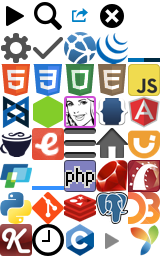
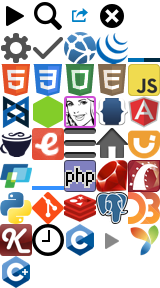
Add C++ documentation

diff --git a/assets/stylesheets/global/_icons.scss b/assets/stylesheets/global/_icons.scss
@@ -4,7 +4,7 @@
   width: 1rem;
   height: 1rem;
   background-image: image-url('icons.png');
-  background-size: 5rem 8rem;
+  background-size: 5rem 9rem;
 }
 
 @media (-webkit-min-device-pixel-ratio: 1.5), (min-resolution: 144dpi) {
@@ -51,3 +51,4 @@
 ._icon-c:before             { background-position: -2rem -7rem; }
 %icon-path                  { background-position: -3rem -7rem; }
 ._icon-yii:before           { background-position: -4rem -7rem; }
+._icon-cpp:before           { background-position: 0 -8rem; }

diff --git a/assets/stylesheets/pages/_c.scss b/assets/stylesheets/pages/_c.scss
@@ -19,4 +19,18 @@
     color: $textColorLight;
   }
   .t-sdsc-nopad dl, .t-sdsc-nopad dd { margin: 0; }
+
+  td > h5 {
+    margin: 0;
+    line-height: inherit;
+  }
+
+  .t-inheritance-diagram {
+    display: table;
+    margin: 1rem 0;
+    padding: .375rem;
+    font-size: .75rem;
+    border: 1px solid #ccc;
+    border-radius: 2px;
+  }
 }

diff --git a/lib/docs/filters/cpp/entries.rb b/lib/docs/filters/cpp/entries.rb
@@ -1,0 +1,50 @@
+module Docs
+  class Cpp
+    class EntriesFilter < Docs::EntriesFilter
+      REPLACE_NAMES = {
+        'Error directive' => '#error directive',
+        'Filename and line information' => '#line directive',
+        'Implementation defined behavior control' => '#pragma directive',
+        'Replacing text macros' => '#define directive',
+        'Source file inclusion' => '#include directive' }
+
+      def get_name
+        name = at_css('#firstHeading').content.strip
+        name.sub! 'C++ concepts: ', ''
+        name.sub! 'C++ keywords: ', ''
+        name.sub! 'C++ ', ''
+        name.sub! %r{\s\(.+\)}, ''
+        name.sub! %r{\AStandard library header <(.+)>\z}, '\1'
+        name = name.split(',').first
+        REPLACE_NAMES[name] || name
+      end
+
+      def get_type
+        if at_css('#firstHeading').content.include?('C++ keyword')
+          'Keywords'
+        elsif type = at_css('.t-navbar > div:nth-child(4) > :first-child').try(:content)
+          type.strip!
+          type.sub! ' library', ''
+          type.sub! ' utilities', ''
+          type.sub! 'C++ ', ''
+          type.capitalize!
+          type
+        end
+      end
+
+      def additional_entries
+        return [] unless include_default_entry?
+        names = at_css('#firstHeading').content.gsub(%r{\(.+?\)}, '').split(',')[1..-1]
+        names.each(&:strip!).reject! do |name|
+          name.size <= 2 || name == '...' || name =~ /\A[<>]/ || name.start_with?('operator')
+        end
+        names.map { |name| [name] }
+      end
+
+      def include_default_entry?
+        return @include_default_entry if defined? @include_default_entry
+        @include_default_entry = at_css('.t-navbar > div:nth-child(4) > a') && at_css('#firstHeading').content !~ /\A\s*operator./
+      end
+    end
+  end
+end

diff --git a/lib/docs/scrapers/cpp.rb b/lib/docs/scrapers/cpp.rb
@@ -1,0 +1,30 @@
+module Docs
+  class Cpp < FileScraper
+    self.name = 'C++'
+    self.slug = 'cpp'
+    self.type = 'c'
+    self.dir = '/Users/Thibaut/DevDocs/Docs/C/en/cpp'
+    self.base_url = 'http://en.cppreference.com/w/cpp/'
+    self.root_path = 'header.html'
+
+    html_filters.insert_before 'clean_html', 'c/fix_code'
+    html_filters.push 'cpp/entries', 'c/clean_html', 'title'
+    text_filters.push 'cpp/fix_urls'
+
+    options[:container] = '#content'
+    options[:title] = false
+    options[:root_title] = 'C++ Programming Language'
+    options[:skip] = %w(
+      language/extending_std.html
+      language/history.html
+      regex/ecmascript.html
+      regex/regex_token_iterator/operator_cmp.html
+    )
+    options[:only_patterns] = [/\.html\z/]
+
+    options[:attribution] = <<-HTML
+      &copy; cppreference.com<br>
+      Licensed under the Creative Commons Attribution-ShareAlike Unported License v3.0.
+    HTML
+  end
+end

diff --git a/lib/docs/filters/cpp/fix_urls.rb b/lib/docs/filters/cpp/fix_urls.rb
@@ -1,0 +1,12 @@
+module Docs
+  class Cpp
+    class FixUrlsFilter < Filter
+      def call
+        html.gsub! File.join(Cpp.base_url, Cpp.root_path), Cpp.base_url[0..-2]
+        html.gsub! %r{#{Cpp.base_url}([^"']+?)\.html}, "#{Cpp.base_url}\\1"
+        html.gsub! %r{http://en.cppreference.com/common/([^"']+?)\.svg}, 'http://upload.cppreference.com/mwiki/\1.svg'
+        html
+      end
+    end
+  end
+end

diff --git a/lib/docs/filters/c/clean_html.rb b/lib/docs/filters/c/clean_html.rb
@@ -30,6 +30,14 @@ module Docs
           node.name = 'code'
         end
 
+        css('div > a > img[alt="About this image"]').each do |node|
+          node.parent.parent.remove
+        end
+
+        css('area[href]').each do |node|
+          node['href'] = node['href'].sub('.html', '')
+        end
+
         doc
       end
     end
